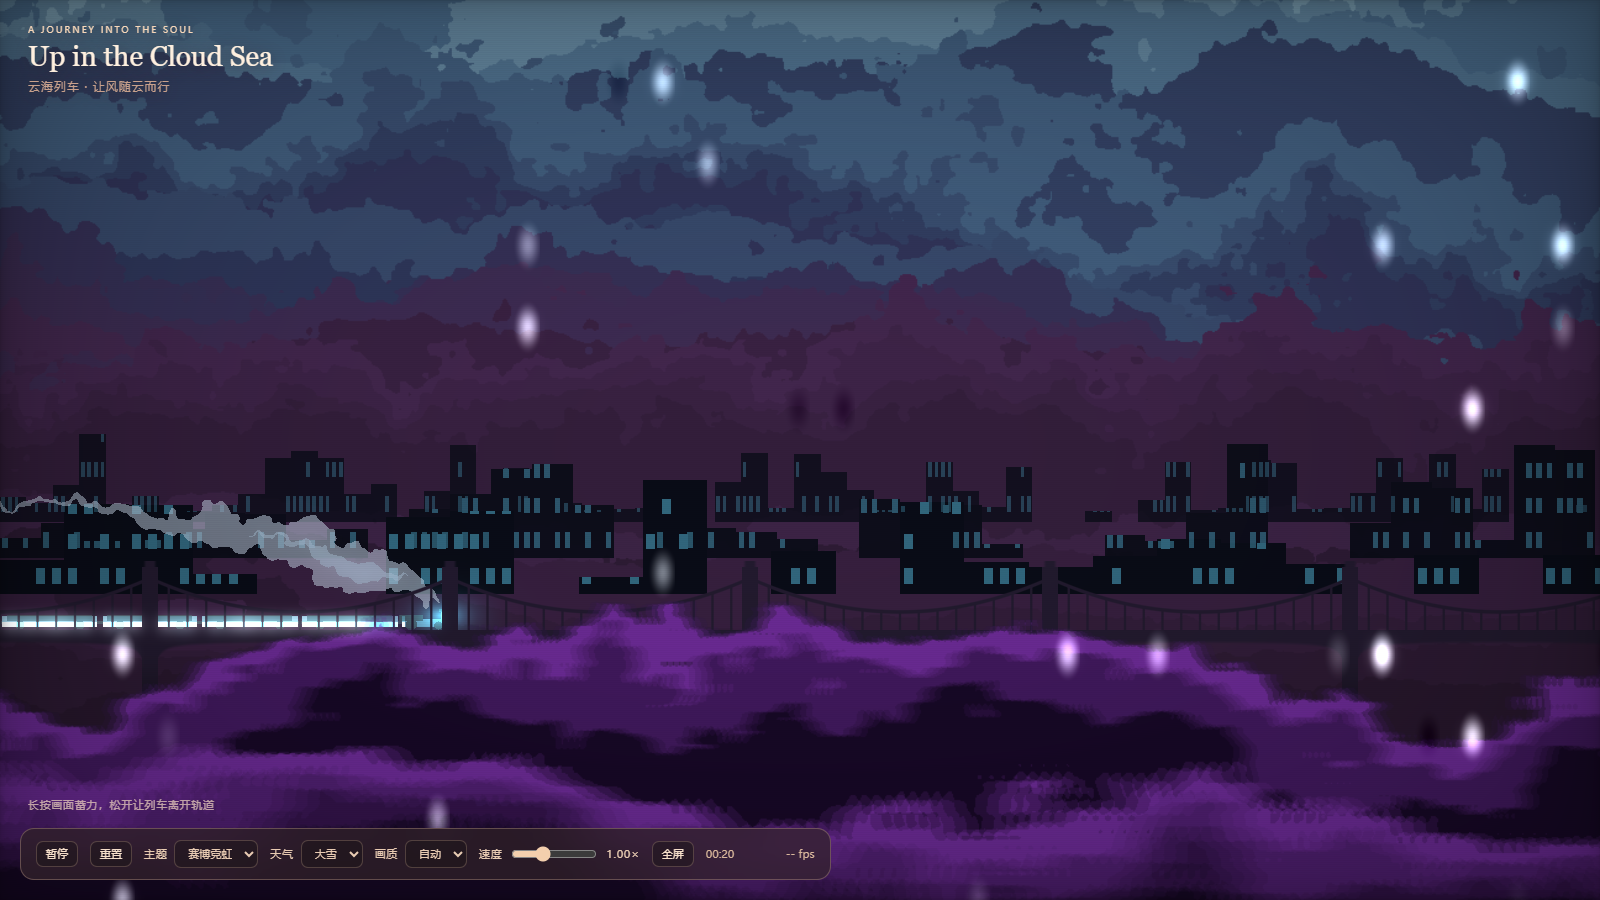
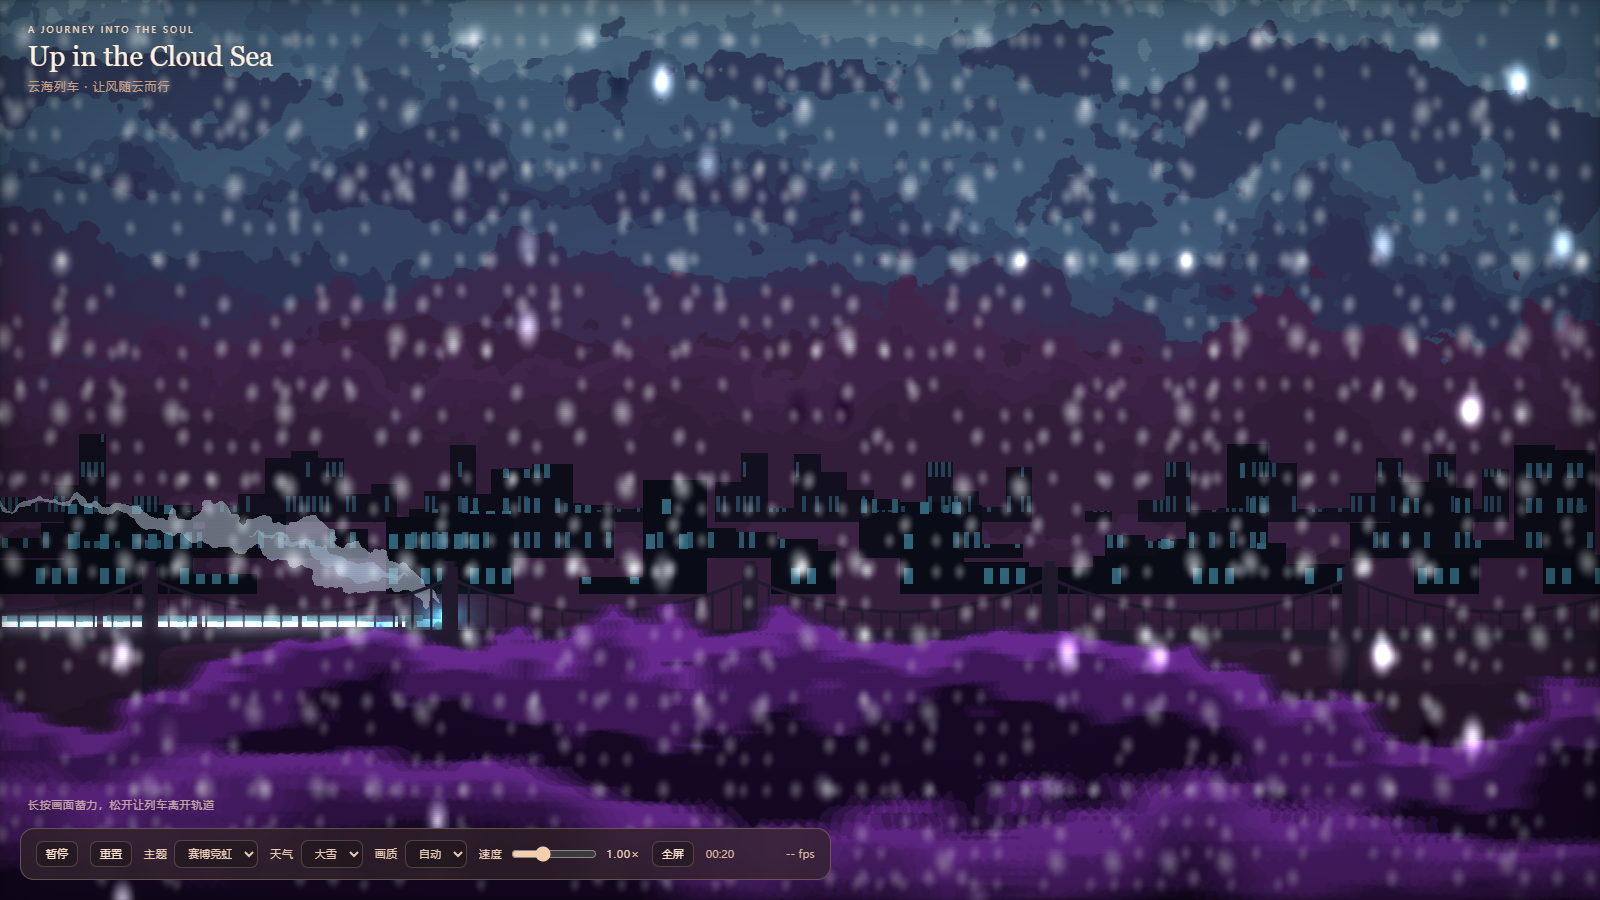
M13: 降水遮挡（云覆盖率调制雨雪可见度）

diff --git a/docs/开发日志.md b/docs/开发日志.md
@@ -208,10 +208,44 @@
 
 ---
 
+## 2026-11-18 · M13 降水遮挡（云缝更清、雾里更淡）
+
+### 做了什么
+
+1. **天空 pass 输出云覆盖率**：`sky.frag` 的 alpha 从恒为 1 改成 `bg.a`（1 = 云 / 0 = 天空）。
+   这是 M12 遗留的第 4 步，之前没有通道可用来做遮挡。
+2. **降水按覆盖率调制**（composite）：
+
+```glsl
+float rainVis = mix(1.0, 0.55, fg.a)            // 前景雾挡掉一部分雨
+              * mix(0.70, 1.0, 1.0 - cloudTexel.a);  // 云缝里更清楚
+```
+
+   雪用更弱的遮挡（0.70 / 0.80），避免雪片在雾区被抹平。
+3. **复用采样**：`cloudTexel` 与 `fg` 原本就要采样，这里只多读了 `.a`，没有额外纹理请求。
+
+### 为什么第一版调得很轻
+
+最初用 `mix(1.0, 0.25, fg.a)`，雾区的雨几乎消失——看起来像"下半屏没下雨"。
+降到 0.55 后是"雾里淡、缝隙清"的正确观感：反射到画面上是**同一场雨在不同深度上的可见度差异**，而不是半屏断了。
+
+### 数据
+
+- 1080p：大雨 9.32 ms、大雪 8.27 ms（对比 M12 的 8.75 / 8.59，增量在测量噪声范围内）；
+- 截图对比：`shots/rain-occlusion.png`（上：全屏均匀下雨；下：雾区变淡、云缝更清）。
+
+### 还没做
+
+- **雨雾层**（第三档）：低频噪声薄雾，和"遮挡"是两件事——遮挡改可见度，雾改空气质感；
+- **闪电提亮雨丝**：`uFlash` 仍只传到 final；
+- **水花/雨簇疏密**。
+
+---
+
 ## 待办（按优先级）
 
 1. **音频**：风声（随天气变化）、雷声、起飞音效——M9 唯一没兑现的项；
-   （雨丝质感的后续：云遮蔽衰减 → 雨雾 → 闪电提亮雨丝）
+   （雨丝质感：云遮蔽已完成，剩雨雾与闪电提亮）
 2. **龙卷挖空云层**：现在只有涡旋扭曲，没有真正的缺口；
 3. **竖屏构图**：430×860 下 `uv.x` 只有 0.5，列车占比过大，需要给云层一套纵向参数；
 4. **飓风的体感**：目前靠风速与粒子漂移，可再加画面轻微抖动与云的横向拉伸；
